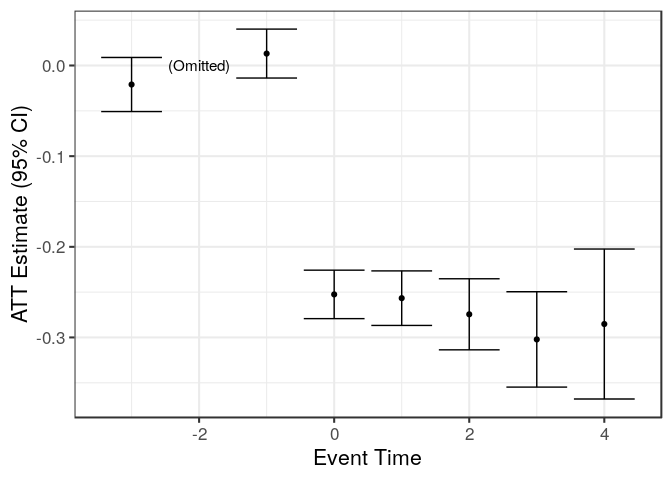
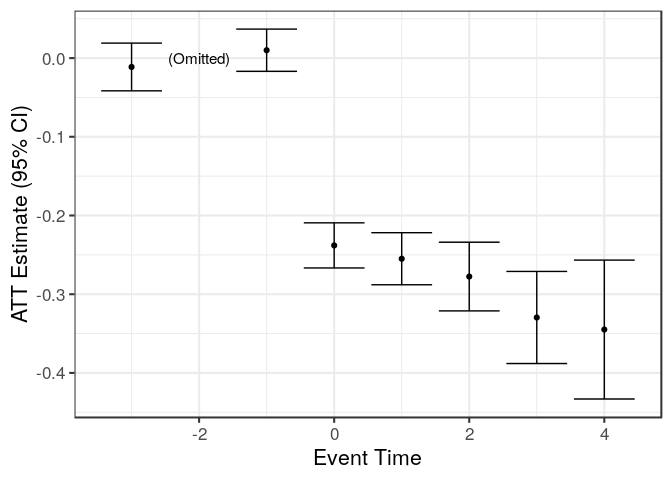
Edits to clean_data and documentation

diff --git a/README.md b/README.md
@@ -48,7 +48,7 @@ These optional arguments allow you to customize `ES` to deal with issues like an
 -   `min_control_gap` and `max_control_gap`: `min_control_gap` is the minimum number of time periods ahead that a cohort must receive treatment in order to be included in the control group (e.g., Fadlon & Nielsen, 2019, use `min_control_gap=5`). It must be an integer that is at least `1`. The default is `1`. `max_control_gap` is similar but for the maximum number of time periods ahead (e.g., Fadlon & Nielsen, 2019, also use `max_control_gap=5`). It must be an integer that is at least as large as `min_control_gap`. The default is `Inf`.
 -   `anticipation`: This drops observations from the control group this many time periods ahead of the control groups receiving the treatment. For example, consider a treatment group that receives treatment in 2001. If `min_control_gap=5` and `anticipation=0`, then another cohort treated in 2006 can be used as a control group up to 2005, but if `anticipation=1`, then they can be used as a control group up to 2004.
 -   `homogeneous_ATT`: This will only estimate the pooled (homogeneous) treatment effects if set to `TRUE`, and skip estimating the cohort-specific effects, which may be slow for large data. Default is `FALSE`.
--   `never_treat_action`: This determines how to handle never-treated groups. Those who do not receive treatment should be coded as `NA`. The default option is `never_treat_action="none"`, in which case, it is expected that all observations are treated, and an error is thrown if any observations have `onset_time_var=NA`. Other options are: `never_treat_action="only"`, in which case only never-winners are used as control groups; `never_treat_action="exclude"`, in which case never-winners are never used as controls; and `never_treat_action="keep"`, in which case both never-winners and not-yet-winners are used as controls.
+-   `never_treat_action`: This determines how to handle never-treated groups. Those who do not receive treatment should be coded as `onset_time_var=NA`. The default option is `never_treat_action="none"`, in which case, it is expected that all observations are treated, and an error is thrown if any observations have `onset_time_var=NA`. Other options are: `never_treat_action="only"`, in which case only never-winners are used as control groups; `never_treat_action="exclude"`, in which case never-winners are never used as controls; and `never_treat_action="keep"`, in which case both never-winners and not-yet-winners are used as controls.
 -   `control_subset_var` and `control_subset_event_time`: These variables allow one to require that the control group satisfies a logical condition at a given event time. `control_subset_var` must be the name of a logical variable in the data (all values of this variable are `TRUE` or `FALSE`) and `control_subset_event_time` is an integer which specifies the event time at which the control group must have a value of `TRUE` on `control_subset_var`. The default is `control_subset_var=NA`, which bypasses this option.
 -   `fill_zeros`: `fill_zeros` is a logical indicator (`TRUE` or `FALSE`) which results in the data being filled and the outcome set to zero for all observations on a unit that are missing within the time frame included in the data. The default is `FALSE`.
 -   `linearize_pretrends`: `linearize_pretrends` is a logical indicator that, when set to `TRUE`, results in linear pre-trends being fit during the pre-event years, and then residualized out of both the pre-event and post-event outcomes. The default is `FALSE`.
@@ -85,18 +85,18 @@ sim_data <- ES_simulate_data(units = 1000)[["observed"]]
 sim_data[]
 ```
 
-    ##       individual year treatment_year   outcome
-    ##    1:          1 1999           2005 0.7846282
-    ##    2:          1 2000           2005 0.4487163
-    ##    3:          1 2001           2005 0.7453717
-    ##    4:          1 2002           2005 0.8915385
-    ##    5:          1 2003           2005 0.4434582
-    ##   ---                                         
-    ## 6996:       1000 2001           2003 0.9327653
-    ## 6997:       1000 2002           2003 0.5755903
-    ## 6998:       1000 2003           2003 0.6511915
-    ## 6999:       1000 2004           2003 0.8061300
-    ## 7000:       1000 2005           2003 0.4857922
+    ##       individual year treatment_year     outcome
+    ##    1:          1 1999           2005 0.811351216
+    ##    2:          1 2000           2005 1.095756705
+    ##    3:          1 2001           2005 0.870474806
+    ##    4:          1 2002           2005 0.829629576
+    ##    5:          1 2003           2005 0.723766119
+    ##   ---                                           
+    ## 6996:       1000 2001           2003 0.677456779
+    ## 6997:       1000 2002           2003 0.910380468
+    ## 6998:       1000 2003           2003 0.620562946
+    ## 6999:       1000 2004           2003 0.008933491
+    ## 7000:       1000 2005           2003 0.495212029
 
 In this data, the treatment is received in the year given by the `treatment_year` variable. The other variables are `individual`, `year`, and `outcome`. We wish to perform an event study to understand the effect of this treatment on this outcome.
 
@@ -125,12 +125,12 @@ results <- ES(long_data=sim_data, outcomevar="outcome",
               onset_time_var="treatment_year", cluster_vars="individual")
 ```
 
-    ## INFO [2019-02-11 13:37:47] Beginning ES.
-    ## INFO [2019-02-11 13:37:47] Beginning data stacking.
-    ## INFO [2019-02-11 13:38:05] Successfully produced a stacked dataset with 28,180 rows.
-    ## INFO [2019-02-11 13:38:06] Estimated heterogeneous case with OLS.
-    ## INFO [2019-02-11 13:38:06] Estimated homogeneous case with OLS.
-    ## INFO [2019-02-11 13:38:06] ES is finished.
+    ## INFO [2019-02-11 14:04:44] Beginning ES.
+    ## INFO [2019-02-11 14:04:44] Beginning data stacking.
+    ## INFO [2019-02-11 14:05:03] Successfully produced a stacked dataset with 28,928 rows.
+    ## INFO [2019-02-11 14:05:04] Estimated heterogeneous case with OLS.
+    ## INFO [2019-02-11 14:05:04] Estimated homogeneous case with OLS.
+    ## INFO [2019-02-11 14:05:04] ES is finished.
 
 ### Example 2. Estimation using only control cohorts that receive treatment at certain times in the future
 
@@ -144,26 +144,12 @@ results2 <- ES(long_data=sim_data, outcomevar="outcome",
                min_control_gap = 3, max_control_gap = 5, anticipation = 1)
 ```
 
-    ## INFO [2019-02-11 13:38:06] Beginning ES.
-    ## INFO [2019-02-11 13:38:06] Beginning data stacking.
-    ## INFO [2019-02-11 13:38:18] Successfully produced a stacked dataset with 13,807 rows.
-
-    ## Warning in chol.default(mat, pivot = TRUE, tol = tol): the matrix is either
-    ## rank-deficient or indefinite
-
-    ## Warning in chol.default(mat, pivot = TRUE, tol = tol): the matrix is either
-    ## rank-deficient or indefinite
-
-    ## INFO [2019-02-11 13:38:19] Estimated heterogeneous case with OLS.
-
-    ## Warning in chol.default(mat, pivot = TRUE, tol = tol): the matrix is either
-    ## rank-deficient or indefinite
-
-    ## Warning in chol.default(mat, pivot = TRUE, tol = tol): the matrix is either
-    ## rank-deficient or indefinite
-
-    ## INFO [2019-02-11 13:38:19] Estimated homogeneous case with OLS.
-    ## INFO [2019-02-11 13:38:19] ES is finished.
+    ## INFO [2019-02-11 14:05:04] Beginning ES.
+    ## INFO [2019-02-11 14:05:04] Beginning data stacking.
+    ## INFO [2019-02-11 14:05:15] Successfully produced a stacked dataset with 11,967 rows.
+    ## INFO [2019-02-11 14:05:15] Estimated heterogeneous case with OLS.
+    ## INFO [2019-02-11 14:05:15] Estimated homogeneous case with OLS.
+    ## INFO [2019-02-11 14:05:15] ES is finished.
 
 ### Example 3. Estimation using only never-winners as the control group
 
@@ -183,12 +169,12 @@ results3 <- ES(long_data=sim_data2, outcomevar="outcome",
                never_treat_action = "only")
 ```
 
-    ## INFO [2019-02-11 13:38:19] Beginning ES.
-    ## INFO [2019-02-11 13:38:19] Beginning data stacking.
-    ## INFO [2019-02-11 13:38:39] Successfully produced a stacked dataset with 35,788 rows.
-    ## INFO [2019-02-11 13:38:40] Estimated heterogeneous case with OLS.
-    ## INFO [2019-02-11 13:38:41] Estimated homogeneous case with OLS.
-    ## INFO [2019-02-11 13:38:41] ES is finished.
+    ## INFO [2019-02-11 14:05:16] Beginning ES.
+    ## INFO [2019-02-11 14:05:16] Beginning data stacking.
+    ## INFO [2019-02-11 14:05:35] Successfully produced a stacked dataset with 35,595 rows.
+    ## INFO [2019-02-11 14:05:36] Estimated heterogeneous case with OLS.
+    ## INFO [2019-02-11 14:05:36] Estimated homogeneous case with OLS.
+    ## INFO [2019-02-11 14:05:36] ES is finished.
 
 ### Example 4. Estimation using only control cohorts that satisfy a condition at an event time
 
@@ -209,12 +195,12 @@ results4 <- ES(long_data=sim_data, outcomevar="outcome",
                control_subset_var="valid_control", control_subset_event_time=-1)
 ```
 
-    ## INFO [2019-02-11 13:38:41] Beginning ES.
-    ## INFO [2019-02-11 13:38:41] Beginning data stacking.
-    ## INFO [2019-02-11 13:39:00] Successfully produced a stacked dataset with 20,020 rows.
-    ## INFO [2019-02-11 13:39:01] Estimated heterogeneous case with OLS.
-    ## INFO [2019-02-11 13:39:02] Estimated homogeneous case with OLS.
-    ## INFO [2019-02-11 13:39:02] ES is finished.
+    ## INFO [2019-02-11 14:05:36] Beginning ES.
+    ## INFO [2019-02-11 14:05:36] Beginning data stacking.
+    ## INFO [2019-02-11 14:05:56] Successfully produced a stacked dataset with 19,600 rows.
+    ## INFO [2019-02-11 14:05:57] Estimated heterogeneous case with OLS.
+    ## INFO [2019-02-11 14:05:57] Estimated homogeneous case with OLS.
+    ## INFO [2019-02-11 14:05:57] ES is finished.
 
 ### Example 5. Removing linear deviations from parallel trends
 
@@ -228,13 +214,13 @@ results5 <- ES(long_data=sim_data, outcomevar="outcome",
                linearize_pretrends = TRUE)
 ```
 
-    ## INFO [2019-02-11 13:39:02] Beginning ES.
-    ## INFO [2019-02-11 13:39:02] Linearizing pre-trends.
-    ## INFO [2019-02-11 13:39:02] Beginning data stacking.
-    ## INFO [2019-02-11 13:39:21] Successfully produced a stacked dataset with 28,180 rows.
-    ## INFO [2019-02-11 13:39:21] Estimated heterogeneous case with OLS.
-    ## INFO [2019-02-11 13:39:22] Estimated homogeneous case with OLS.
-    ## INFO [2019-02-11 13:39:22] ES is finished.
+    ## INFO [2019-02-11 14:05:57] Beginning ES.
+    ## INFO [2019-02-11 14:05:57] Linearizing pre-trends.
+    ## INFO [2019-02-11 14:05:58] Beginning data stacking.
+    ## INFO [2019-02-11 14:06:17] Successfully produced a stacked dataset with 28,928 rows.
+    ## INFO [2019-02-11 14:06:18] Estimated heterogeneous case with OLS.
+    ## INFO [2019-02-11 14:06:18] Estimated homogeneous case with OLS.
+    ## INFO [2019-02-11 14:06:18] ES is finished.
 
 ### Example 6. Residualzing on covariates where some are discrete and some are continuous
 
@@ -262,13 +248,13 @@ results6 <- ES(long_data=sim_data, outcomevar="outcome",
                cont_covars = c('cont_covar1','cont_covar2'))
 ```
 
-    ## INFO [2019-02-11 13:39:22] Beginning ES.
-    ## INFO [2019-02-11 13:39:22] Residualizing on covariates.
-    ## INFO [2019-02-11 13:39:22] Beginning data stacking.
-    ## INFO [2019-02-11 13:39:43] Successfully produced a stacked dataset with 28,180 rows.
-    ## INFO [2019-02-11 13:39:43] Estimated heterogeneous case with OLS.
-    ## INFO [2019-02-11 13:39:44] Estimated homogeneous case with OLS.
-    ## INFO [2019-02-11 13:39:44] ES is finished.
+    ## INFO [2019-02-11 14:06:18] Beginning ES.
+    ## INFO [2019-02-11 14:06:18] Residualizing on covariates.
+    ## INFO [2019-02-11 14:06:19] Beginning data stacking.
+    ## INFO [2019-02-11 14:06:38] Successfully produced a stacked dataset with 28,928 rows.
+    ## INFO [2019-02-11 14:06:39] Estimated heterogeneous case with OLS.
+    ## INFO [2019-02-11 14:06:39] Estimated homogeneous case with OLS.
+    ## INFO [2019-02-11 14:06:39] ES is finished.
 
 ### Example 7. Filling in missing rows with zeros.
 
@@ -288,13 +274,13 @@ results7 <- ES(long_data=sim_data, outcomevar="outcome",
                fill_zeros = TRUE)
 ```
 
-    ## INFO [2019-02-11 13:39:44] Beginning ES.
-    ## INFO [2019-02-11 13:39:44] Filling in zeros.
-    ## INFO [2019-02-11 13:39:44] Beginning data stacking.
-    ## INFO [2019-02-11 13:40:04] Successfully produced a stacked dataset with 28,180 rows.
-    ## INFO [2019-02-11 13:40:04] Estimated heterogeneous case with OLS.
-    ## INFO [2019-02-11 13:40:05] Estimated homogeneous case with OLS.
-    ## INFO [2019-02-11 13:40:05] ES is finished.
+    ## INFO [2019-02-11 14:06:39] Beginning ES.
+    ## INFO [2019-02-11 14:06:39] Filling in zeros.
+    ## INFO [2019-02-11 14:06:40] Beginning data stacking.
+    ## INFO [2019-02-11 14:06:59] Successfully produced a stacked dataset with 28,928 rows.
+    ## INFO [2019-02-11 14:07:00] Estimated heterogeneous case with OLS.
+    ## INFO [2019-02-11 14:07:00] Estimated homogeneous case with OLS.
+    ## INFO [2019-02-11 14:07:00] ES is finished.
 
 Note: This cannot be combined with residualizing on covariates, since ES would need to know how to fill in the covariates during the years that observations are missing.
 
